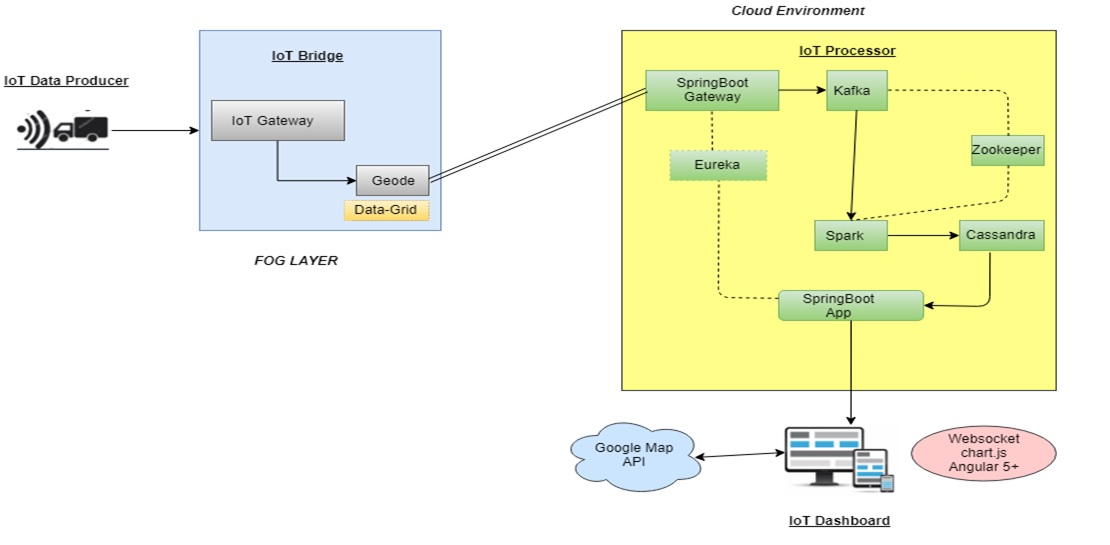
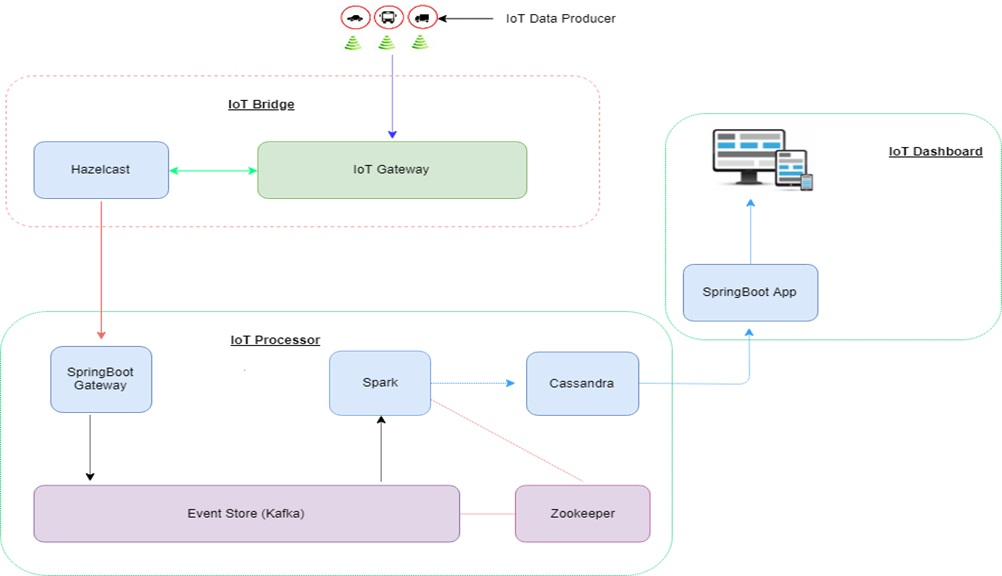
updated soltion image

diff --git a/README.md b/README.md
@@ -14,13 +14,11 @@ A hackathon using OpenShift environment which was around IOT. Below are the obje
 * Java 8
 * Spring Boot
 * Apache Kafka
-* Spring Cloud Dataflow
-* Apache Spark / Apache Apex
-* Apache Geode
+* Hazelcast
+* Apache Spark 
 * Cassandra
-* PostgresSQL
-* Google MAP API
 * WebSockets
+* JQuery
 * Open Shift / Azure (Tomcat)
 
 
